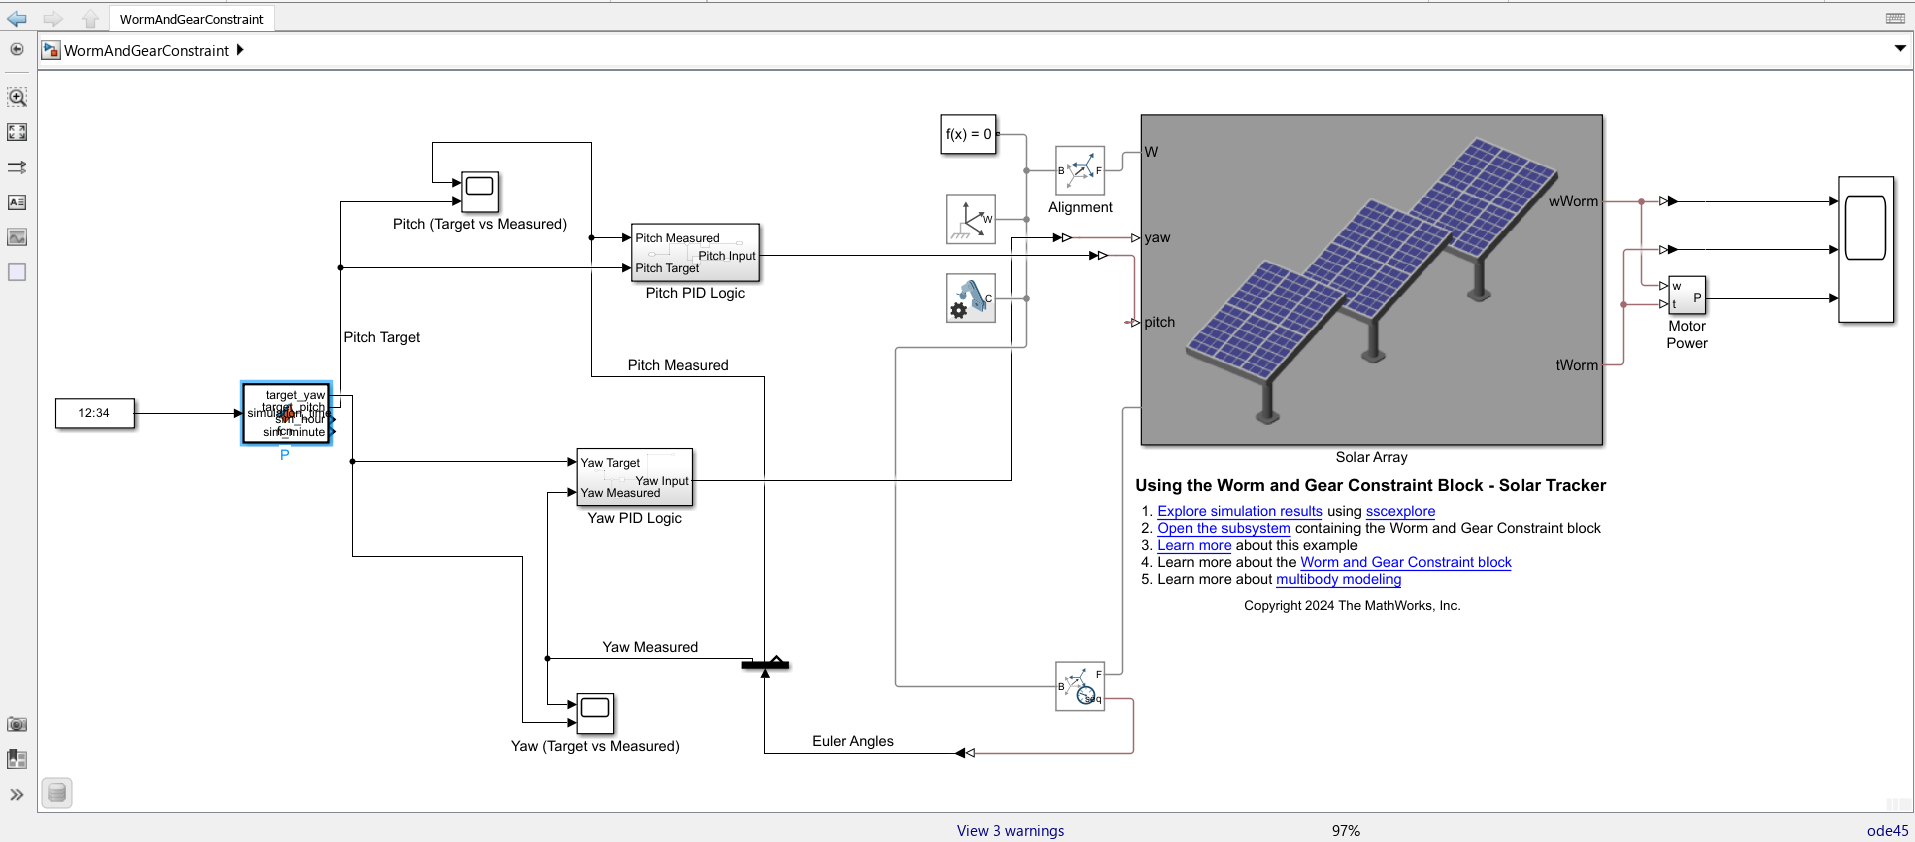
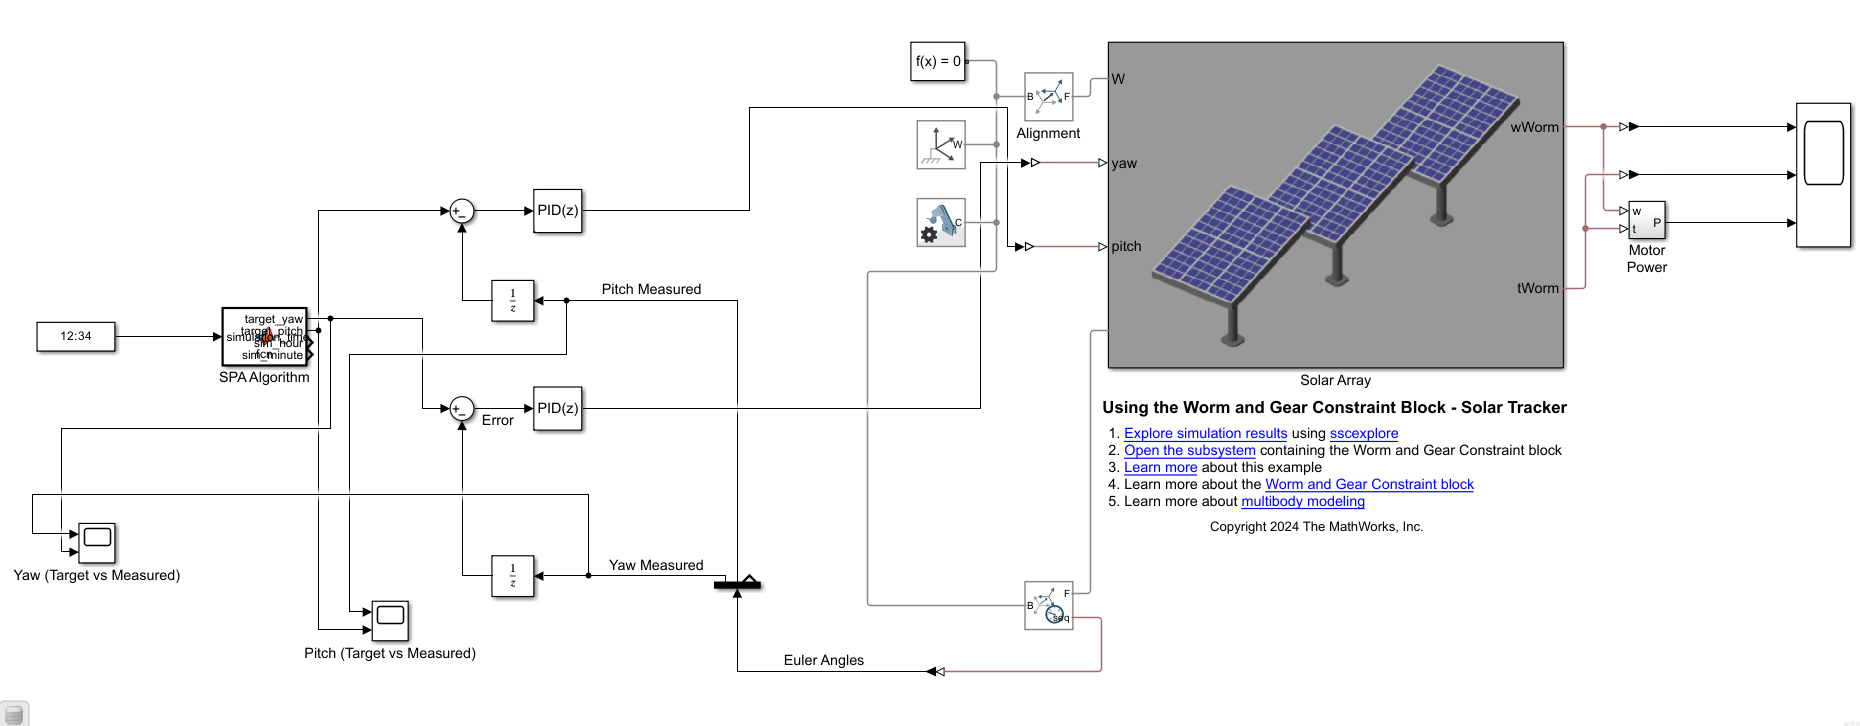
Updated README

diff --git a/README.md b/README.md
@@ -138,10 +138,10 @@ To address the limitations of the fixed-angle solar panel system, we designed a 
 The core of the design is a two-axis, closed-loop control system. Each axis has its own PID controller to manage the panel's orientation. This system controls both the yaw (azimuth) and pitch (elevation) axes to precisely follow the sun's trajectory throughout the day. 
 
 <p align="center">
-  <img src="images/simulink model.png" alt="Simulink Model" width="1500" />
+  <img src="images/simulink model.png" alt="Simulink Model" width="1000" />
 </p>
 
-We first find where the yaw and pitch angles should be by using a Solar Position Algorithm (SPA) to calculate the sun's real-time coordinates for a specific geographic location, and a specific time. We found a SPA algorithm written in MATLAB from the MATLAB File Exchange website[^2], and after modifying the code to make it compatible to be used within our Simulink program, we set the geographic location to Los Angeles, CA since we both reside there. For the time, we chose July 25, 2025, since this is the due date for our project. The design is highly adaptable; the solar tracking algorithm can be configured for any geographic location by changing the latitude and longitude coordinates, and for any point in time, including future dates.
+We first find where the yaw and pitch angles should be by using a Solar Position Algorithm (SPA) to calculate the sun's real-time coordinates for a specific geographic location, and a specific time. We found a SPA algorithm written in MATLAB from the MATLAB File Exchange website[^2], and after modifying the code to make it compatible to be used within our Simulink program, we set the geographic location to Los Angeles, CA since we both reside there. For the time, we chose July 25, 2025 since this is the due date for our project. For the time, we chose to model from 8:00 AM - 8:00 PM, since this is slightly after sunrise right until sunset. The design is highly adaptable; the solar tracking algorithm can be configured for any geographic location by changing the latitude and longitude coordinates, and for any point in time, including future dates.
 
 After we found where the yaw and pitch angles should be, we found where the yaw and pitch angles actually are. To do this, we used a Transform Sensor to obtain the Euler Angles of the solar panel. After we obtained the actual yaw and pitch, we fed it into our PID control system. Each controller continuously compares the target angle with the panel's actual measured angle and commands a DC motor to adjust the panel's orientation, thereby minimizing the error and ensuring the panel faces the sun directly. By using a control loop, we ensure that the panel continuously aligns itself with the sun’s position, maximizing solar energy capture throughout the entire day, unlike our previous model.
 
@@ -155,6 +155,21 @@ After we found where the yaw and pitch angles should be, we found where the yaw 
     </td>
   </tr>
 </table>
+
+As you can see below, the actual yaw and pitch angles continuously adjust to align with the target angles because of our control loop.
+
+<table>
+  <tr>
+    <td>
+      <img src="images/Yaw PID.png" alt="Yaw PID Control Loop" width="500"/>
+    </td>
+    <td>
+      <img src="images/Pitch PID.png" alt="Pitch PID Control Loop" width="500"/>
+    </td>
+  </tr>
+</table>
+
+Talk about video here...
 
 ### Accessing our Model
 
